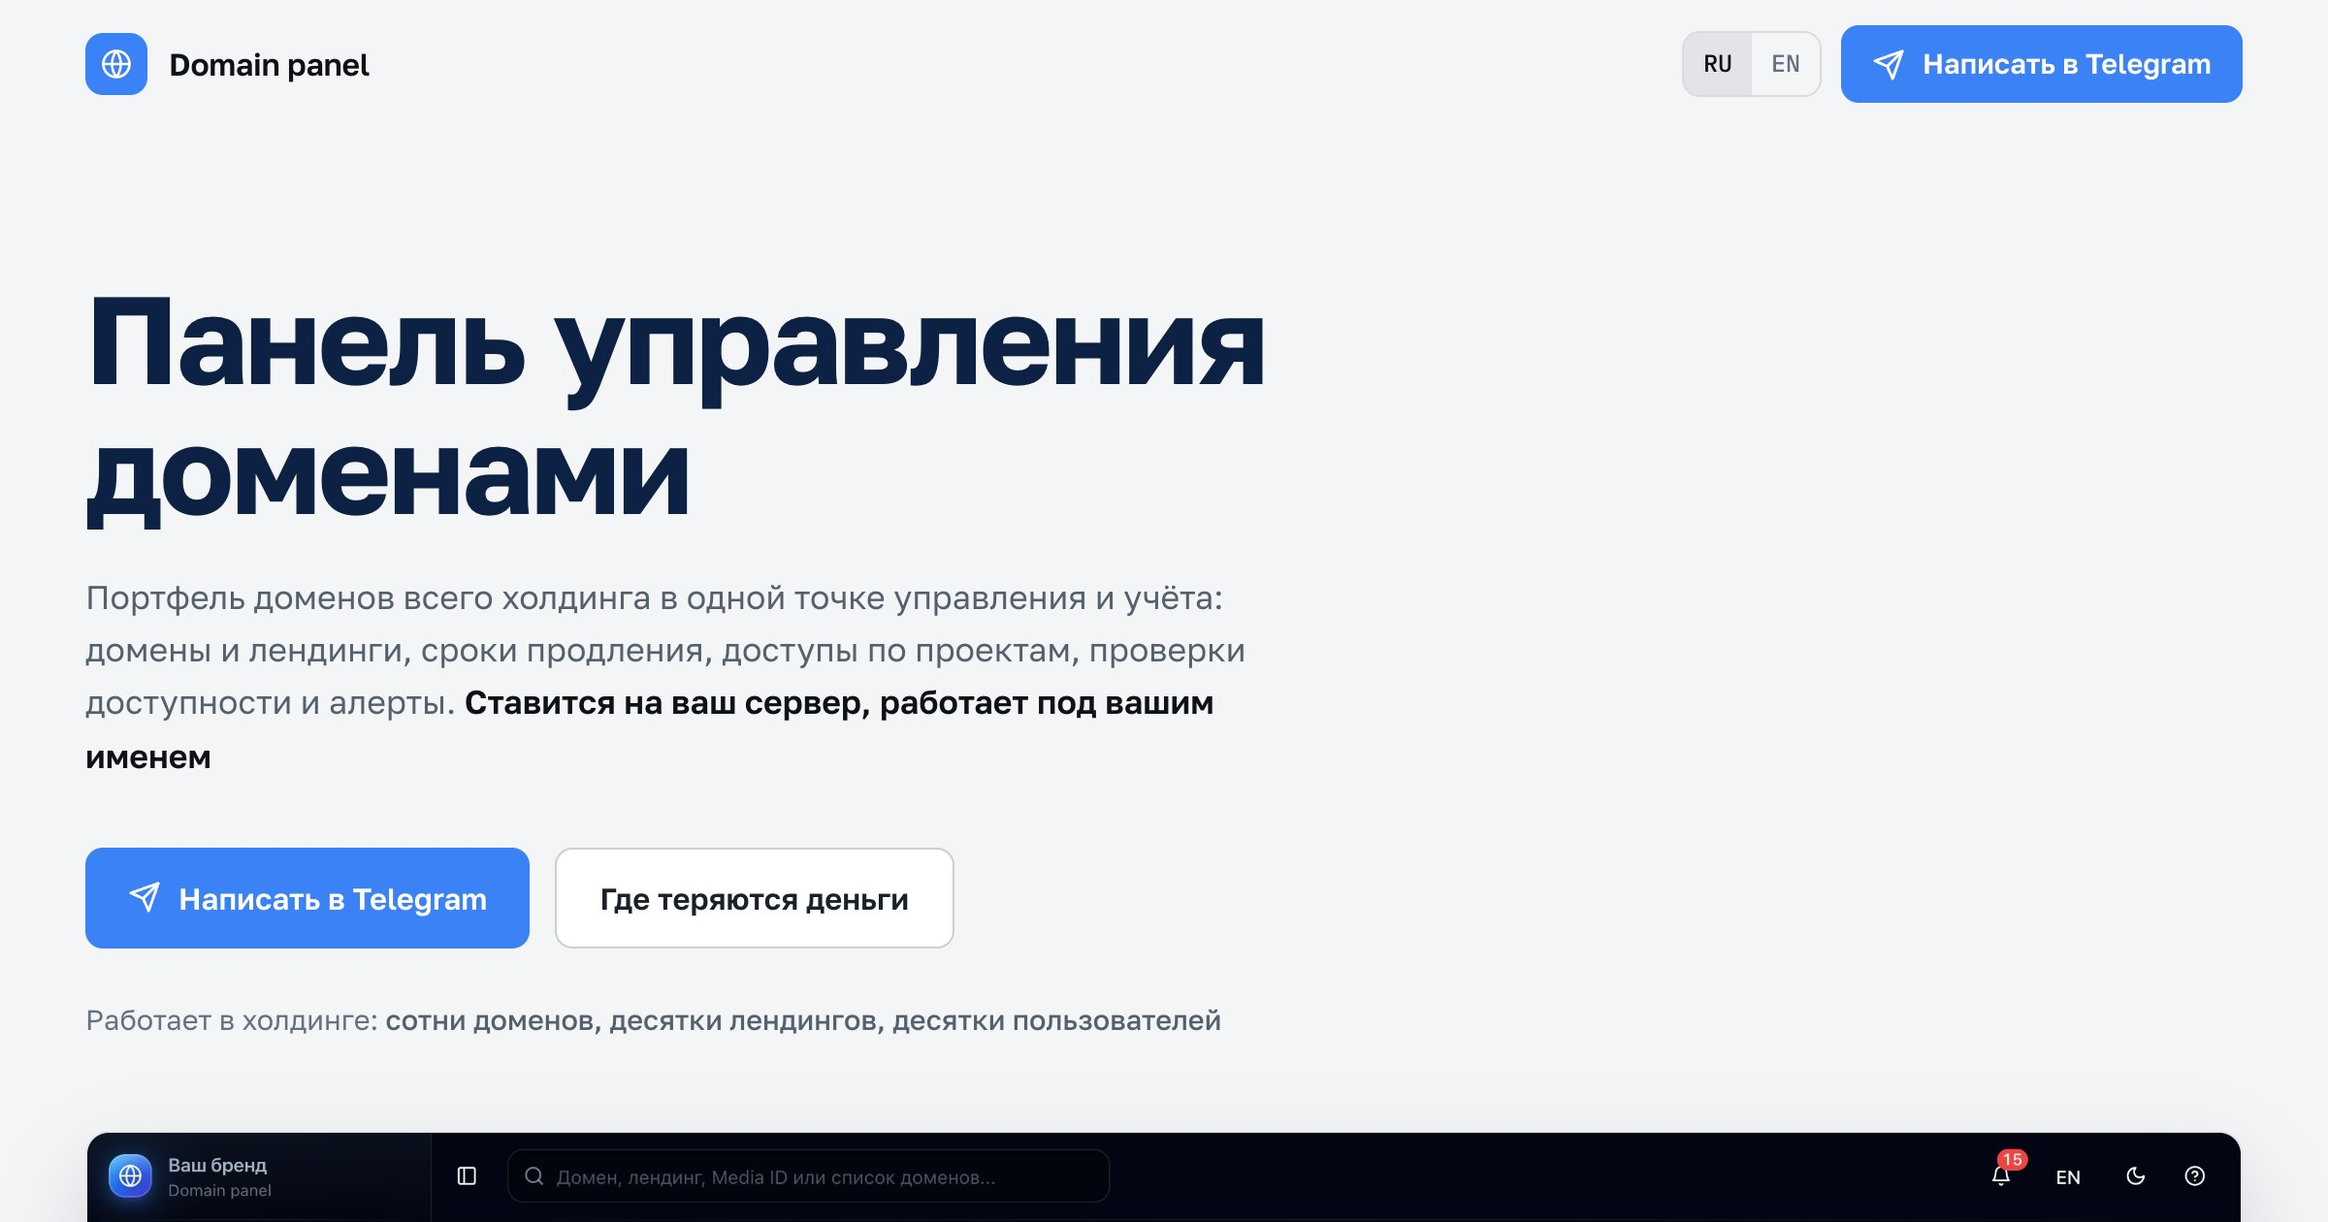
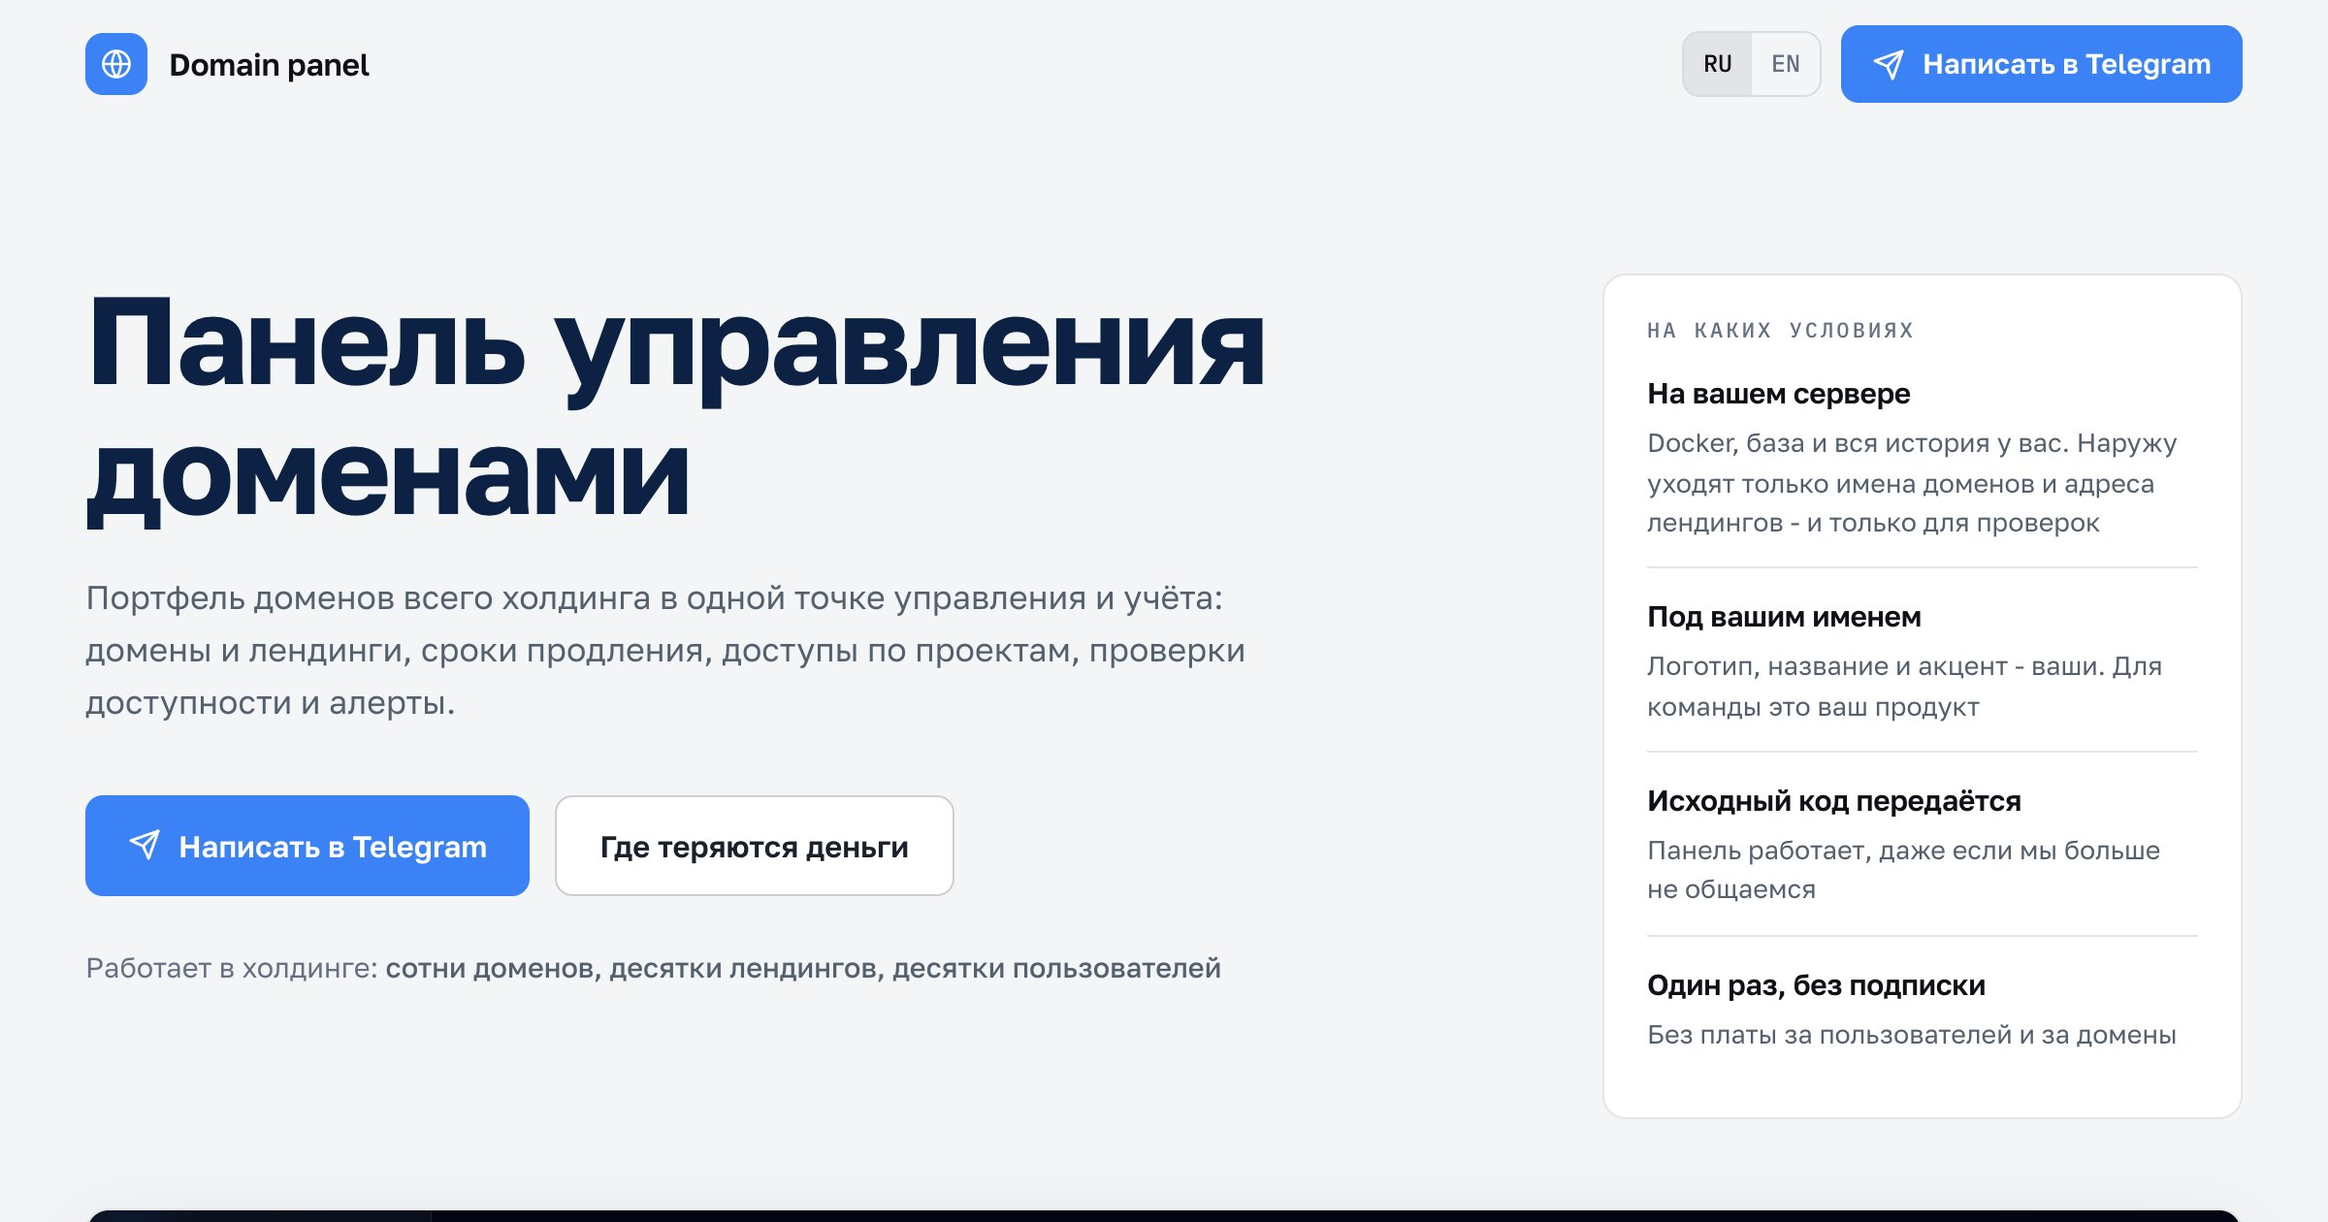
Герой: карточка «На каких условиях»; «Что уходит наружу» вместо серой сноски; срок запуска в «Что нужно от вас»
Три правки по разбору страницы:
- в герое справа карточка условий (ваш сервер, ваше имя, исходный код, один платёж),
  на 640-1000 она под кнопками в две колонки, на телефоне скрыта - факты есть ниже;
- сноска про безопасность стала блоком «Что уходит наружу» с тремя пунктами;
- в «Что нужно от вас» добавлена строка «Сколько это займёт»: день установки и первая неделя.

По проходу критика: периметр описан одинаково в герое и в «Поставке» (имена доменов
и адреса лендингов), список «Поставки» переписан на работы без повторов карточки,
пороги сетки сведены к 1000. og.jpg переснят с новым героем.

diff --git a/index.html b/index.html
@@ -386,6 +386,40 @@
   .lb img{border-color:rgb(255 255 255 / .13)}
   .lb-cap{color:#9DA9BD}
   .lb-cap b{color:#F2F6FC}
+  /* ── Герой: условия поставки сразу у заголовка ──────────── */
+  .hterms{display:none}
+  .onlynarrow{display:none}
+  @media (max-width:639px){.onlynarrow{display:inline}}
+  @media (min-width:1001px){
+    .hero .wrap{display:grid;grid-template-columns:minmax(0,1fr) 330px;gap:0 60px;align-items:start}
+    .hero .shotwrap{grid-column:1 / -1}
+    .hterms{display:block;border:1px solid var(--b1);border-radius:var(--r-card);background:var(--card);padding:20px 22px}
+  }
+  @media (min-width:640px) and (max-width:1000px){
+    .hterms{display:block;margin-top:30px;border:1px solid var(--b1);border-radius:var(--r-card);background:var(--card);padding:20px 22px}
+    .hterms ul{display:grid;grid-template-columns:1fr 1fr;gap:0 30px}
+    .hterms li:nth-child(2){border-top:0;padding-top:0}
+  }
+  .hterms-h{font-family:var(--mono);font-size:11px;letter-spacing:.14em;text-transform:uppercase;color:var(--faint);margin-bottom:12px}
+  .hterms ul{margin:0;padding:0;list-style:none}
+  .hterms li{padding:13px 0;border-top:1px solid var(--b1)}
+  .hterms li:first-child{border-top:0;padding-top:0}
+  .hterms li b{display:block;font-size:15px;font-weight:600;color:var(--fg);letter-spacing:-.01em}
+  .hterms li > span{display:block;margin-top:4px;font-size:13.5px;line-height:1.5;color:var(--dim)}
+
+  /* ── Поставка: первый вопрос покупателя - что уходит наружу ─ */
+  .outcard{margin-top:16px;border:1px solid var(--b1);border-radius:var(--r-card);background:var(--card);padding:20px 22px}
+  .outcard-h{display:flex;align-items:center;gap:9px;font-size:15px;font-weight:600;color:var(--fg);letter-spacing:-.01em}
+  .outcard-h svg{width:18px;height:18px;flex:none;fill:none;stroke:var(--sig-up);stroke-width:1.8;stroke-linecap:round;stroke-linejoin:round}
+  .outcard ul{margin:12px 0 0;padding:0;list-style:none}
+  .outcard li{position:relative;padding:7px 0 7px 16px;font-size:14px;line-height:1.55;color:var(--dim)}
+  .outcard li::before{content:"";position:absolute;left:2px;top:15px;width:4px;height:4px;border-radius:50%;background:var(--b2)}
+
+  /* ── Начало работы: срок запуска ────────────────────────── */
+  .when{margin-top:34px;padding-top:20px;border-top:1px solid var(--b1);display:grid;grid-template-columns:repeat(2,minmax(0,1fr));gap:10px 56px;font-size:15px;color:var(--dim)}
+  .when b{color:var(--fg);font-weight:600}
+  .when-l{grid-column:1 / -1;font-family:var(--mono);font-size:11px;letter-spacing:.14em;text-transform:uppercase;color:var(--faint)}
+  @media (max-width:1000px){.when{grid-template-columns:1fr;gap:16px}}
 </style>
 </head>
 <body>
@@ -413,13 +447,14 @@
 <section class="hero">
   <div class="bgfx"><i></i><i></i></div>
   <div class="wrap">
+    <div class="hmain">
     <h1>
       <span class="ru">Панель управления доменами</span>
       <span class="en">A control panel for your domains</span>
     </h1>
     <p class="say">
-      <span class="ru">Портфель доменов всего холдинга в одной точке управления и учёта: домены и лендинги, сроки продления, доступы по проектам, проверки доступности и алерты. <b>Ставится на ваш сервер, работает под вашим именем</b></span>
-      <span class="en">The whole holding's domain portfolio in one place to run and account for: domains and landings, renewal dates, per-project access, availability checks and alerts. <b>Installed on your server, running under your own name</b></span>
+      <span class="ru">Портфель доменов всего холдинга в одной точке управления и учёта: домены и лендинги, сроки продления, доступы по проектам, проверки доступности и алерты. <b class="onlynarrow">Ставится на ваш сервер, работает под вашим именем</b></span>
+      <span class="en">The whole holding's domain portfolio in one place to run and account for: domains and landings, renewal dates, per-project access, availability checks and alerts. <b class="onlynarrow">Installed on your server, running under your own name</b></span>
     </p>
     <div class="cta">
       <a class="btn btn-main" href="https://t.me/denis_pdm" target="_blank" rel="noopener">
@@ -432,6 +467,16 @@
       <span class="ru">Работает в холдинге: <b>сотни доменов, десятки лендингов, десятки пользователей</b></span>
       <span class="en">Running in a holding company: <b>hundreds of domains, dozens of landings, dozens of users</b></span>
     </p>
+    </div>
+    <aside class="hterms">
+      <div class="hterms-h"><span class="ru">На каких условиях</span><span class="en">On what terms</span></div>
+      <ul>
+        <li><b><span class="ru">На вашем сервере</span><span class="en">On your server</span></b><span><span class="ru">Docker, база и вся история у вас. Наружу уходят только имена доменов и адреса лендингов - и только для проверок</span><span class="en">Docker, the database and the whole history stay with you. Only domain names and landing URLs leave the perimeter, and only for the checks</span></span></li>
+        <li><b><span class="ru">Под вашим именем</span><span class="en">Under your own name</span></b><span><span class="ru">Логотип, название и акцент - ваши. Для команды это ваш продукт</span><span class="en">Logo, name and accent colour are yours. To your team it is your own product</span></span></li>
+        <li><b><span class="ru">Исходный код передаётся</span><span class="en">The source code is handed over</span></b><span><span class="ru">Панель работает, даже если мы больше не общаемся</span><span class="en">The panel keeps working even if we never speak again</span></span></li>
+        <li><b><span class="ru">Один раз, без подписки</span><span class="en">Paid once, no subscription</span></b><span><span class="ru">Без платы за пользователей и за домены</span><span class="en">No per-user or per-domain fees</span></span></li>
+      </ul>
+    </aside>
     <div class="shotwrap glowbox">
       <div class="shot">
         <img src="shots/dashboard.jpg" data-en="shots/en/dashboard.jpg" data-phone="shots/phone-one.jpg" data-phone-en="shots/en/phone-one.jpg" alt="Дашборд: что требует решения сегодня" loading="eager">
@@ -526,10 +571,9 @@
       <div class="rub"><span class="ru">Поставка</span><span class="en">Delivery</span></div>
       <h2><span class="ru">Ставится у вас, работает под вашим именем</span><span class="en">Installed at your place, running under your name</span></h2>
       <ul>
-        <li><svg viewBox="0 0 24 24"><path d="M20 6 9 17l-5-5"/></svg><span class="ru">Docker на вашем сервере. Реестр, доступы и история - на вашей инфраструктуре</span><span class="en">Docker on your server. The registry, access and history stay on your infrastructure</span></li>
-        <li><svg viewBox="0 0 24 24"><path d="M20 6 9 17l-5-5"/></svg><span class="ru">Исходный код передаётся. Панель работает, даже если мы больше не общаемся</span><span class="en">The source code is handed over. The panel keeps working even if we never speak again</span></li>
-        <li><svg viewBox="0 0 24 24"><path d="M20 6 9 17l-5-5"/></svg><span class="ru">Имя, логотип и акцент - ваши, задаются переменными сборки. Для команды это ваш продукт</span><span class="en">Name, logo and accent colour are yours, set through build variables. To your team it is your own product</span></li>
+        <li><svg viewBox="0 0 24 24"><path d="M20 6 9 17l-5-5"/></svg><span class="ru">Ставим и запускаем на вашем сервере: сборка, база, вход для команды</span><span class="en">We install and start it on your server: the build, the database, logins for the team</span></li>
         <li><svg viewBox="0 0 24 24"><path d="M20 6 9 17l-5-5"/></svg><span class="ru">Переносим таблицы и кабинеты регистраторов, настраиваем проверки, страны и алерты</span><span class="en">We migrate your spreadsheets and registrar accounts, set up the checks, countries and alerts</span></li>
+        <li><svg viewBox="0 0 24 24"><path d="M20 6 9 17l-5-5"/></svg><span class="ru">Собираем под ваш бренд и передаём исходный код - с инструкцией, как обновлять своими силами</span><span class="en">We build it under your brand and hand over the source code - with instructions on updating it yourselves</span></li>
       </ul>
     </div>
     <div class="dealside">
@@ -541,10 +585,17 @@
         <span class="ru">Спросить цену в Telegram</span><span class="en">Ask the price on Telegram</span>
         </a>
       </div>
-      <p class="note">
-      <span class="ru">Наружу уходят только имена доменов и адреса лендингов - и только тем, без кого проверка не работает. Карту исходящего трафика пришлю до покупки</span>
-        <span class="en">Only domain names and landing URLs leave the perimeter - and only to those without whom a check cannot run. I send the outbound traffic map before the purchase</span>
-      </p>
+      <div class="outcard">
+        <div class="outcard-h">
+          <svg viewBox="0 0 24 24"><path d="M12 3 5 6v6c0 4.2 2.9 7.6 7 9 4.1-1.4 7-4.8 7-9V6l-7-3Z"/><path d="m9 12 2 2 4-4"/></svg>
+          <span class="ru">Что уходит наружу</span><span class="en">What leaves the perimeter</span>
+        </div>
+        <ul>
+          <li><span class="ru">Только имена доменов и адреса лендингов - и только тем, без кого проверка не работает</span><span class="en">Only domain names and landing URLs - and only to the services a check cannot run without</span></li>
+          <li><span class="ru">Карту исходящего трафика пришлю до покупки</span><span class="en">I send the outbound traffic map before the purchase</span></li>
+          <li><span class="ru">Ни игроков, ни ставок, ни выплат панель не видит и не хранит</span><span class="en">The panel never sees or stores players, bets or payouts</span></li>
+        </ul>
+      </div>
     </div>
   </div>
 </section>
@@ -600,6 +651,11 @@
         <h3><span class="ru">Один человек с вашей стороны</span><span class="en">One person on your side</span></h3>
         <p><span class="ru">Кто решает, какие проекты завести, кому какой доступ открыть и куда слать алерты. Дальше панель работает сама</span><span class="en">Who decides which projects to create, who gets which access and where the alerts go. After that the panel runs itself</span></p>
       </div>
+    </div>
+    <div class="when">
+      <span class="when-l"><span class="ru">Сколько это займёт</span><span class="en">How long it takes</span></span>
+      <span><b><span class="ru">День установки</span><span class="en">Install day</span></b> <span class="ru">- панель открывается, ваши таблицы уже внутри</span><span class="en">- the panel opens with your spreadsheets already inside</span></span>
+      <span><b><span class="ru">Первая неделя</span><span class="en">First week</span></b> <span class="ru">- остальное настроено, панель работает сама</span><span class="en">- everything else is set up and the panel runs itself</span></span>
     </div>
   </div>
 </section>
